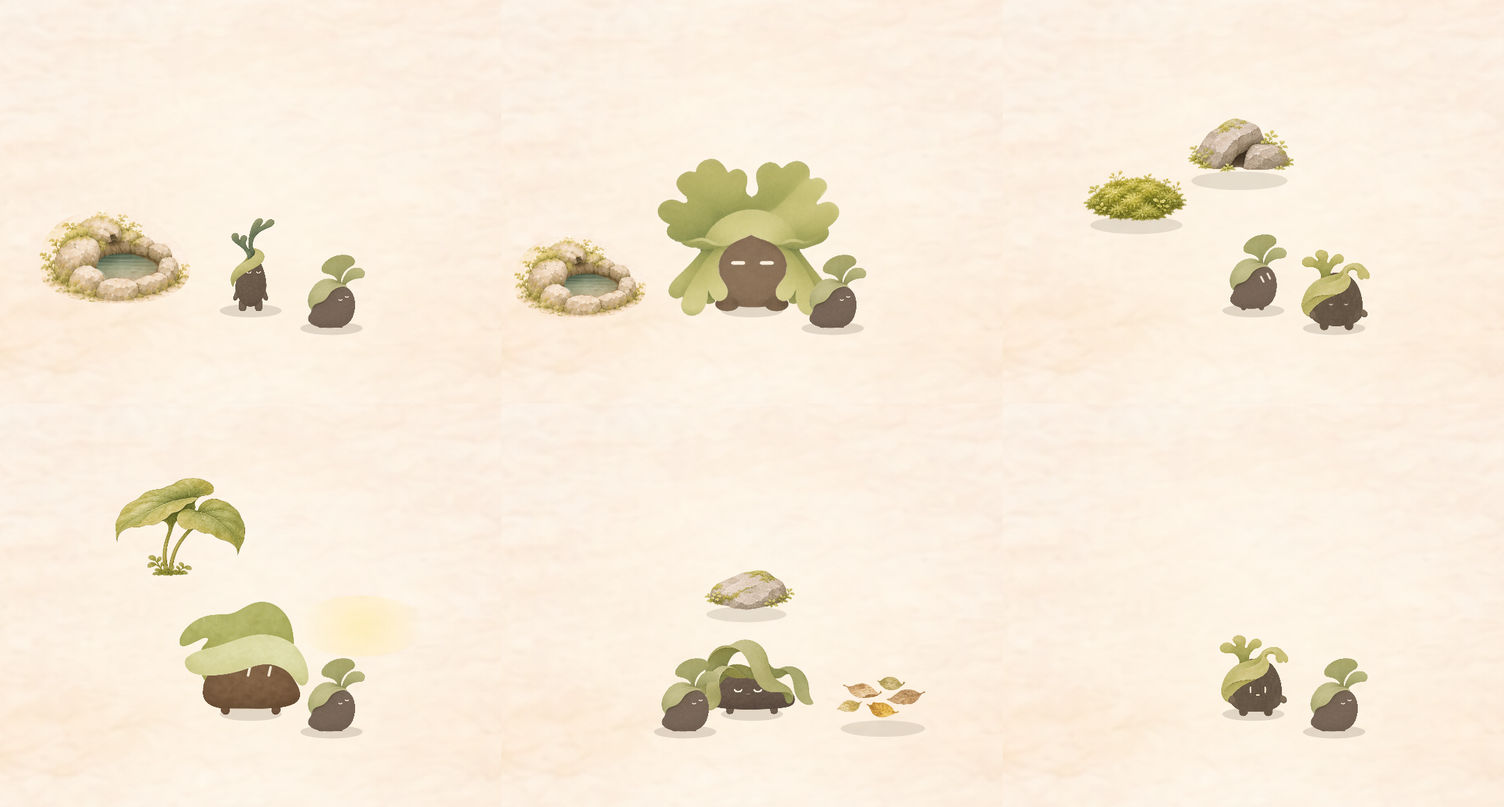
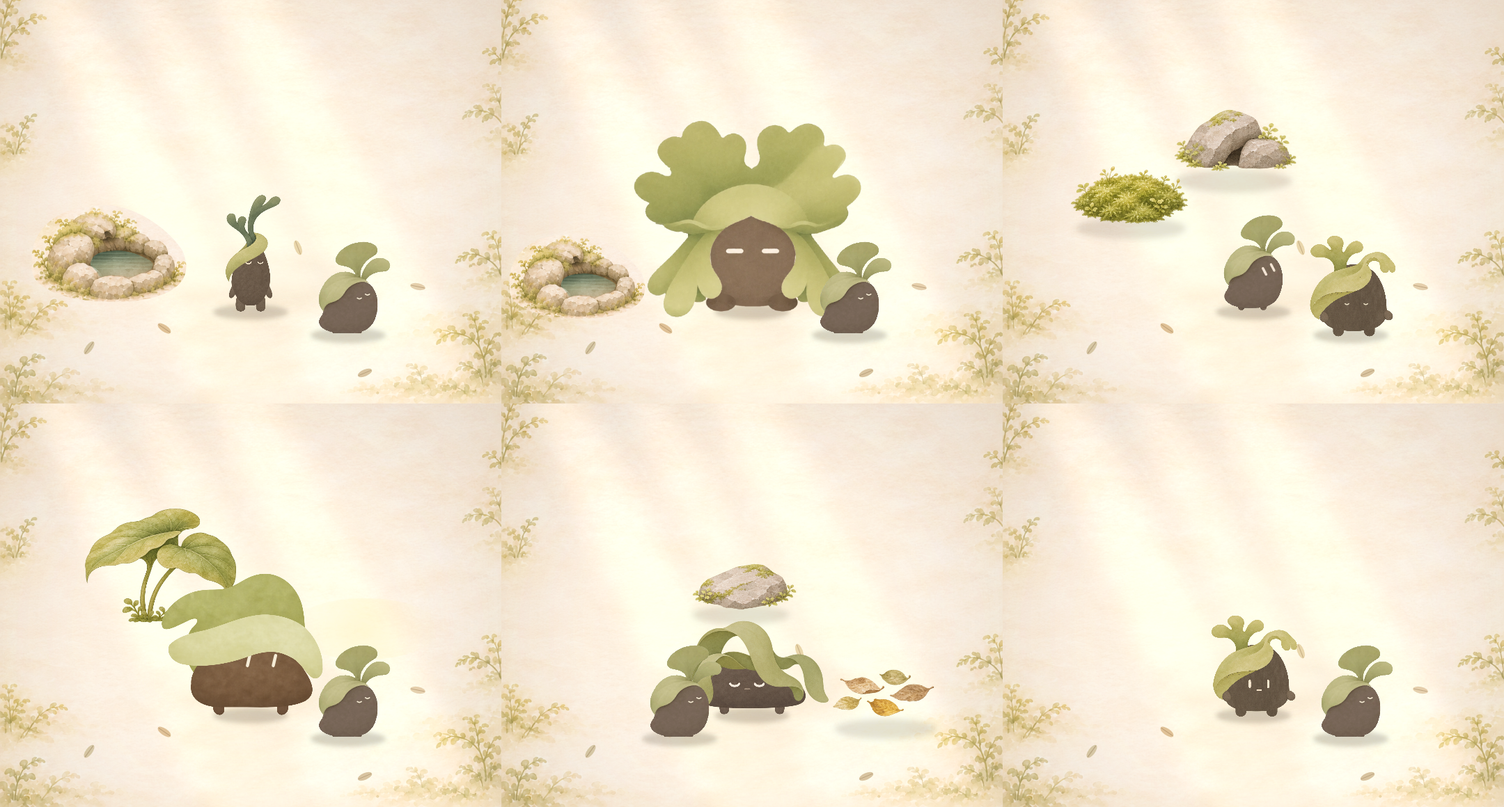
0.6.30: 첫 만남 장면 새 디자인(월드 바닥 그림·빈터·오솔길·햇살), 보송→베이치 이름 바꾸기와 저장 이전
npm test 272/272, UI PASS

Claude-Session: https://claude.ai/code/session_01AkSebmy3Y1v8yPfHbxXfQs

diff --git a/app/src/main/assets/web/forest-app.js b/app/src/main/assets/web/forest-app.js
@@ -75,19 +75,30 @@ function recruitmentPanel(){const r=state.recruitment,v=r.visitor;return '<div c
 function renderVisit(){const v=state.recruitment.visitor;if(!v){switchTab('friends');return;}$('page').innerHTML='<button class="text-button" data-action="visit-close">‹ 정원으로 돌아가기</button><h2>'+escape(F.Recruitment.josa(v.pet.name,'과','와'))+' 첫 만남</h2><p class="sub">만나는 동안 정원의 생활은 잠시 쉬어요.</p><canvas id="visit-canvas" width="720" height="580" style="width:100%;height:auto;border-radius:24px" aria-label="친구와 만나는 작은 자리"></canvas><div class="panel"><p id="visit-status"></p><p class="sub">'+F.Recruitment.goals[v.species]+'</p><ul id="visit-steps" class="recruit-checks"></ul><p id="visit-leave" class="sub"></p><div class="button-pair">'+(F.Recruitment.steps(state).buttons.greet?'<button class="secondary" data-action="visit-greet">반갑게 인사하기</button>':'')+(F.Recruitment.steps(state).buttons.guide?'<button class="secondary" data-action="visit-guide">물 있는 곳 알려주기</button>':'')+'</div><button id="visit-settle" class="primary" data-action="visit-settle">함께 살기</button></div>';updateVisit();drawVisit(performance.now()/1000);}
 function updateVisit(){const v=state.recruitment.visitor;if(!v||!$('visit-status'))return;const p=state.recruitment.progress[v.species];$('visit-status').textContent=v.ready?'함께 살 준비가 됐어요.':v.seconds<30?'새로운 자리에 천천히 익숙해져요.':({walk:'주변을 살펴보며 걸어요.',water:'잎에 물을 모으고 물을 살펴봐요.',sun:'햇빛이 드는 자리를 살펴봐요.',shade:'시원한 그늘을 확인해요.',pick:'낙엽을 조심히 주워요.',carry:'낙엽을 마른 자리로 옮겨요.',rest:'편안하게 쉬고 있어요.',spring:'샘터의 물을 살펴봐요.',sky:'둥지잎을 펼치고 하늘을 올려다봐요.'})[v.phase]||'서로 익숙해지고 있어요.';$('visit-settle').disabled=!v.ready||state.individuals.length>=50;const st=F.Recruitment.steps(state);if(st&&$('visit-steps')){$('visit-steps').innerHTML=st.list.map(k=>'<li class="'+(k.done?'ok':'no')+'">'+(k.done?'✓ ':'· ')+escape(k.label)+(k.value?' <span>'+escape(k.value)+'</span>':'')+'</li>').join('');$('visit-leave').textContent=st.ready?'':'만남 화면을 열어 둔 동안만 시간이 흘러요. 준비가 안 된 채 '+Math.ceil(st.leaveIn/60)+'분이 더 지나면 친구가 잠시 돌아가요.';}}
 function drawVisit(t){const canvas=$('visit-canvas'),v=state.recruitment.visitor;if(!canvas||!v)return;const c=canvas.getContext('2d'),A=scene.assets;c.clearRect(0,0,720,580);
- // Paper ground like the world, a soft clearing, and only the props this visitor actually uses (0.6.24).
- const g=A.garden;if(g)c.drawImage(g,g.width*.42,g.height*.06,g.width*.15,g.height*.1,0,0,720,580);else{c.fillStyle='#f7f3e9';c.fillRect(0,0,720,580);}
- c.save();c.scale(2,2);const glow=c.createRadialGradient(180,170,20,180,170,190);glow.addColorStop(0,'rgba(255,250,236,.55)');glow.addColorStop(1,'rgba(255,250,236,0)');c.fillStyle=glow;c.fillRect(0,0,360,290);
- const terr=(ix,x,y,size)=>{const im=A.terrain;if(!im)return;const sw=im.width/3,sh=im.height/2;c.save();c.globalAlpha=.14;c.fillStyle='#5a4a32';c.beginPath();c.ellipse(x,y+size*.02,size*.36,size*.07,0,0,Math.PI*2);c.fill();c.restore();c.drawImage(im,(ix%3)*sw,Math.floor(ix/3)*sh,sw,sh,x-size/2,y-size*.75,size,size);};
+ // 0.6.30 card scene: the world's own painted ground with its fern borders, a soft worn path into a lit clearing,
+ // the guest's real props on the ground and the characters larger, back to front with contact shadows.
+ const g=A.garden;if(g){const sh=g.width*580/720;c.drawImage(g,0,g.height-sh,g.width,sh,0,0,720,580);}else{c.fillStyle='#f7f0e2';c.fillRect(0,0,720,580);}
+ c.save();c.scale(2,2);
+ const soft=(f,b)=>{c.save();c.filter='blur('+b+'px)';f();c.restore();};
+ // lit clearing and a gentle darkening toward the corners
+ const glow=c.createRadialGradient(180,175,10,180,175,200);glow.addColorStop(0,'rgba(255,248,226,.62)');glow.addColorStop(.6,'rgba(255,248,226,.18)');glow.addColorStop(1,'rgba(255,248,226,0)');c.fillStyle=glow;c.fillRect(0,0,360,290);
+ const edge=c.createRadialGradient(180,160,120,180,160,260);edge.addColorStop(0,'rgba(110,88,58,0)');edge.addColorStop(1,'rgba(110,88,58,.16)');c.fillStyle=edge;c.fillRect(0,0,360,290);
+ // the worn path from the entrance (bottom) into the clearing
+ soft(()=>{c.fillStyle='rgba(150,118,80,.10)';for(const [x,y,rx,ry] of [[184,286,46,14],[178,262,40,12],[172,240,44,12],[178,218,56,14],[180,200,74,18]]){c.beginPath();c.ellipse(x,y,rx,ry,0,0,Math.PI*2);c.fill();}},5);
+ soft(()=>{c.fillStyle='rgba(255,252,240,.35)';c.beginPath();c.ellipse(180,200,64,13,0,0,Math.PI*2);c.fill();},6);
+ // soft morning rays from the upper left, and a few fallen leaves on the ground (fixed places, no randomness)
+ soft(()=>{c.globalCompositeOperation='lighter';for(const [x,w,a] of [[40,34,.045],[110,22,.03],[170,40,.04]]){c.fillStyle='rgba(255,236,190,'+a+')';c.beginPath();c.moveTo(x-20,-10);c.lineTo(x-20+w,-10);c.lineTo(x+w+150,300);c.lineTo(x+110,300);c.closePath();c.fill();}},8);
+ for(const [x,y,r,col] of [[118,236,.6,'rgba(196,150,86,.55)'],[262,268,-.4,'rgba(176,138,82,.5)'],[214,178,1.2,'rgba(206,170,96,.45)'],[64,250,2.2,'rgba(170,150,90,.45)'],[300,206,.2,'rgba(190,140,80,.4)']]){c.save();c.translate(x,y);c.rotate(r);c.fillStyle=col;c.beginPath();c.ellipse(0,0,5.5,2.4,0,0,Math.PI*2);c.fill();c.strokeStyle='rgba(120,90,50,.35)';c.lineWidth=.5;c.beginPath();c.moveTo(-5,0);c.lineTo(5,0);c.stroke();c.restore();}
+ const terr=(ix,x,y,size)=>{const im=A.terrain;if(!im)return;const sw=im.width/3,sh=im.height/2;soft(()=>{c.fillStyle='rgba(90,72,48,.16)';c.beginPath();c.ellipse(x,y+size*.02,size*.38,size*.075,0,0,Math.PI*2);c.fill();},2);c.drawImage(im,(ix%3)*sw,Math.floor(ix/3)*sh,sw,sh,x-size/2,y-size*.75,size,size);};
  const sp=v.species;
- if(sp==='bonbon'){terr(3,170,128,96);terr(1,96,160,92);}
- if(sp==='bosong')scene.springAt(c,{...state,spring:{...state.spring,water:v.water*3,inflow:4/60},individuals:[],weather:{kind:'sun'}},84,186,.8,t);
- if(sp==='neolbi'){c.drawImage(A.shadePlant,75,30,115,115);c.drawImage(A.shadeGround,75,30,115,115);const sun=c.createRadialGradient(259,160,4,259,160,46);sun.addColorStop(0,'rgba(255,236,170,.6)');sun.addColorStop(1,'rgba(255,236,170,0)');c.fillStyle=sun;c.beginPath();c.ellipse(259,160,48,22,0,0,Math.PI*2);c.fill();}
- if(sp==='jureong'){terr(4,274,232,84);terr(0,176,150,80);}
- if(sp==='superbum')scene.springAt(c,{...state,spring:{...state.spring,water:60,inflow:0},individuals:[],weather:{kind:'sun'}},58,200,.7,t);
- // characters ~2x the old card size, drawn back to front with a soft contact shadow
- const R=80,draw=(species,x,y,kind,phase)=>{c.save();c.globalAlpha=.16;c.fillStyle='#4a3c28';c.beginPath();c.ellipse(x,y,R*.28,R*.06,0,0,Math.PI*2);c.fill();c.restore();c.save();c.translate(x,y);c.scale(R/1254,R/1254);c.translate(-627,-1065.9);ForestRig.draw(c,A,{species,kind,phase,expression:kind==='rest'?'sleepy':'neutral',reduced:state.settings.reducedMotion});c.restore();};
- const kind=v.phase==='sky'?'collect':v.phase==='water'?'drink':v.phase==='pick'||v.phase==='carry'?'litter':v.phase==='walk'?'walk':v.phase==='rest'?'rest':'idle',actors=[{species:v.species,x:v.x*360,y:v.y*290,kind}];if(v.companion)actors.push({species:v.companion,x:sp==='jureong'?132:238,y:236,kind:'rest'});
+ if(sp==='bonbon'){terr(3,166,128,110);terr(1,92,162,104);}
+ if(sp==='bosong')scene.springAt(c,{...state,spring:{...state.spring,water:v.water*3,inflow:4/60},individuals:[],weather:{kind:'sun'}},80,184,.82,t);
+ if(sp==='neolbi'){c.drawImage(A.shadePlant,52,48,134,134);c.drawImage(A.shadeGround,52,48,134,134);const sun=c.createRadialGradient(262,162,4,262,162,52);sun.addColorStop(0,'rgba(255,238,184,.42)');sun.addColorStop(1,'rgba(255,238,184,0)');c.fillStyle=sun;c.beginPath();c.ellipse(262,162,54,22,0,0,Math.PI*2);c.fill();}
+ if(sp==='jureong'){terr(4,276,232,96);terr(0,172,150,92);}
+ if(sp==='superbum')scene.springAt(c,{...state,spring:{...state.spring,water:60,inflow:0},individuals:[],weather:{kind:'sun'}},56,200,.72,t);
+ // characters drawn back to front, each with a soft contact shadow
+ const R=100,draw=(species,x,y,kind,phase)=>{soft(()=>{c.fillStyle='rgba(74,60,40,.22)';c.beginPath();c.ellipse(x,y+1,R*.27,R*.055,0,0,Math.PI*2);c.fill();},1.5);c.save();c.translate(x,y);c.scale(R/1254,R/1254);c.translate(-627,-1065.9);ForestRig.draw(c,A,{species,kind,phase,expression:kind==='rest'?'sleepy':'neutral',reduced:state.settings.reducedMotion});c.restore();};
+ const kind=v.phase==='sky'?'collect':v.phase==='water'?'drink':v.phase==='pick'||v.phase==='carry'?'litter':v.phase==='walk'?'walk':v.phase==='rest'?'rest':'idle',actors=[{species:v.species,x:v.x*360,y:v.y*290,kind}];if(v.companion)actors.push({species:v.companion,x:sp==='jureong'?128:250,y:240,kind:'rest'});
  actors.sort((a,b)=>a.y-b.y).forEach(a=>draw(a.species,a.x,a.y,a.kind,t));c.restore();}
 function toggle(k,value){return '<button class="switch" role="switch" aria-label="'+({mounted:'목부작으로 쉬기',showName:'이름 표시',showLevel:'레벨 표시',showState:'선택 카드 상태 표시',showSpeech:'생활 안내 표시',reducedMotion:'움직임 줄이기'}[k])+'" aria-checked="'+value+'" data-toggle="'+k+'"></button>';}
 function syncEditorViewport(){const canvas=$('garden').getBoundingClientRect(),panel=inspector?$('inspect-panel'):editor?$('editor'):null;scene.camera.setBottomOcclusion(panel&&!panel.hidden?Math.max(0,canvas.bottom-panel.getBoundingClientRect().top):0);scene.cameraChanged();}

diff --git a/app/src/main/assets/web/engine.js b/app/src/main/assets/web/engine.js
@@ -20,7 +20,7 @@ const PATCHES=[
  {id:'shelter',name:'기본 쉼터',cap:10,pool:6,infiltration:6,drain:3,exposure:.1,x:.23,y:.22},
  {id:'litter',name:'낙엽 자리',cap:30,pool:10,infiltration:8,drain:1.5,exposure:.8,x:.54,y:.83}
 ];
-const SPECIES=[['ridley','리들리','Platycerium ridleyi','호기심 많은 작은 관찰자'],['bonbon','엘리시','Platycerium ellisii','둥근 잎틈에 작은 이웃이 머물 자리를 내어줘요'],['neolbi','엘레판','Platycerium elephantotis','큰 잎 아래 그늘을 만들어요'],['bosong','보송','Platycerium veitchii','마른 날 물이 있는 곳을 찾아요'],['jureong','주렁','Platycerium coronarium','바람에 날린 낙엽을 모아요'],['duri','두리','Platycerium bifurcatum','친구와 나란히 쉬는 걸 좋아해요'],['superbum','슈퍼범','Platycerium superbum','둥지잎에 빗물을 모아 목마른 친구에게 나눠줘요']];
+const SPECIES=[['ridley','리들리','Platycerium ridleyi','호기심 많은 작은 관찰자'],['bonbon','엘리시','Platycerium ellisii','둥근 잎틈에 작은 이웃이 머물 자리를 내어줘요'],['neolbi','엘레판','Platycerium elephantotis','큰 잎 아래 그늘을 만들어요'],['bosong','베이치','Platycerium veitchii','마른 날 물이 있는 곳을 찾아요'],['jureong','주렁','Platycerium coronarium','바람에 날린 낙엽을 모아요'],['duri','두리','Platycerium bifurcatum','친구와 나란히 쉬는 걸 좋아해요'],['superbum','슈퍼범','Platycerium superbum','둥지잎에 빗물을 모아 목마른 친구에게 나눠줘요']];
 const clone=x=>JSON.parse(JSON.stringify(x));
 const clamp=(v,min=0,max=100)=>Math.max(min,Math.min(max,v));
 const dist=(a,b)=>Math.hypot(a.x-b.x,a.y-b.y);
@@ -176,7 +176,7 @@ function valid(s){
  return s;
 }
 function migrate(old,now=Date.now()){
- if(old.app==='ForestOfSpace'){const s=clone(old);if(![RULES,'SRS-2.5-stage1','SRS-2.8-stage2','SRS-2.9-stage2','SRS-2.16-weather','SRS-2.17-shelter','SRS-2.18-environment'].includes(s.rules))throw Error('지원하지 않는 규칙 버전이에요. 원본을 유지해요.');Obj.migrate(s);if(s.rules==='SRS-2.18-environment')s.rules=RULES;Env.init(Rec.init(s));if(s.rules!==RULES)Sh.rebuild(s);if(s.rules!==RULES&&['SRS-2.5-stage1','SRS-2.8-stage2','SRS-2.9-stage2','SRS-2.16-weather','SRS-2.17-shelter'].includes(s.rules)){if(['SRS-2.9-stage2','SRS-2.16-weather','SRS-2.17-shelter'].includes(s.rules))s.rules=RULES;W.init(s);}if(s.rules==='SRS-2.5-stage1'){s.rules=RULES;s.version=VERSION;s.settings.audio={master:.65,music:.35,environment:.45,effects:.55};for(const p of s.patches)p.film=0;}if(s.rules==='SRS-2.8-stage2'){s.rules=RULES;Social.init(s);}if(!s.social&&old.rules==='SRS-2.5-stage1')Social.init(s);s.version=VERSION;for(const p of s.individuals){delete p.personalityClip;delete p.motion;if(p.species==='neolbi'){p.canopy=false;p.canopyProgress=0;}delete p.canopyClosing;if(p.active&&!p.mounted&&!Space.walkable(s,p,p.id)){const q=Space.placement(s,p.id,p);if(!q.ok)throw Error('기존 위치를 안전하게 복구하지 못했어요. 원본 기록을 유지해요.');p.x=q.x;p.y=q.y;}}Obj.litterInit(s);valid(s);Social.invalidate(s);s.neighbor.observed=0;for(const p of s.individuals){if(p.name==='새싹이'&&!p.customName)p.name='리들리';if(p.species==='neolbi'&&p.name==='넓이'&&!p.customName)p.name='엘레판';if(p.species==='bonbon'&&p.name==='봉봉'&&!p.customName)p.name='엘리시';}return s;}
+ if(old.app==='ForestOfSpace'){const s=clone(old);if(![RULES,'SRS-2.5-stage1','SRS-2.8-stage2','SRS-2.9-stage2','SRS-2.16-weather','SRS-2.17-shelter','SRS-2.18-environment'].includes(s.rules))throw Error('지원하지 않는 규칙 버전이에요. 원본을 유지해요.');Obj.migrate(s);if(s.rules==='SRS-2.18-environment')s.rules=RULES;Env.init(Rec.init(s));if(s.rules!==RULES)Sh.rebuild(s);if(s.rules!==RULES&&['SRS-2.5-stage1','SRS-2.8-stage2','SRS-2.9-stage2','SRS-2.16-weather','SRS-2.17-shelter'].includes(s.rules)){if(['SRS-2.9-stage2','SRS-2.16-weather','SRS-2.17-shelter'].includes(s.rules))s.rules=RULES;W.init(s);}if(s.rules==='SRS-2.5-stage1'){s.rules=RULES;s.version=VERSION;s.settings.audio={master:.65,music:.35,environment:.45,effects:.55};for(const p of s.patches)p.film=0;}if(s.rules==='SRS-2.8-stage2'){s.rules=RULES;Social.init(s);}if(!s.social&&old.rules==='SRS-2.5-stage1')Social.init(s);s.version=VERSION;for(const p of s.individuals){delete p.personalityClip;delete p.motion;if(p.species==='neolbi'){p.canopy=false;p.canopyProgress=0;}delete p.canopyClosing;if(p.active&&!p.mounted&&!Space.walkable(s,p,p.id)){const q=Space.placement(s,p.id,p);if(!q.ok)throw Error('기존 위치를 안전하게 복구하지 못했어요. 원본 기록을 유지해요.');p.x=q.x;p.y=q.y;}}Obj.litterInit(s);valid(s);Social.invalidate(s);s.neighbor.observed=0;for(const p of s.individuals){if(p.name==='새싹이'&&!p.customName)p.name='리들리';if(p.species==='neolbi'&&p.name==='넓이'&&!p.customName)p.name='엘레판';if(p.species==='bonbon'&&p.name==='봉봉'&&!p.customName)p.name='엘리시';if(p.species==='bosong'&&p.name==='보송'&&!p.customName)p.name='베이치';}if(s.recruitment?.visitor?.pet?.species==='bosong'&&s.recruitment.visitor.pet.name==='보송')s.recruitment.visitor.pet.name='베이치';return s;}
  if(old.schema!==1||old.app!=='RidleyDeskMobile'||!old.pets?.deully||!Number.isFinite(old.savedAt))throw Error('지원하지 않는 이전 기록이에요. 원본은 바꾸지 않았어요.');
  const s=create(now,seedInt(old.deviceId||'old-ridley')),p=s.individuals[0],o=old.pets.deully;
  for(const [a,b]of [['B','water'],['energy','energy'],['mood','mood'],['nutrition','nutrition'],['damage','damage']]){if(!Number.isFinite(o[b]))throw Error('이전 생활 기록을 읽을 수 없어요.');p[a]=clamp(o[b]);}

diff --git a/app/src/main/assets/web/recruitment.js b/app/src/main/assets/web/recruitment.js
@@ -1,7 +1,7 @@
 (function(root,factory){const api=factory();if(typeof module==='object')module.exports=api;else root.ForestRecruitment=api;})(globalThis,function(){
 'use strict';
 const josa=(w,a,b)=>{const c=String(w).charCodeAt(String(w).length-1)-0xac00;return w+(c>=0&&c<11172&&c%28?a:b);};
-const ids=['ridley','bonbon','neolbi','bosong','jureong','duri','superbum'],names=['리들리','엘리시','엘레판','보송','주렁','두리','슈퍼범'];
+const ids=['ridley','bonbon','neolbi','bosong','jureong','duri','superbum'],names=['리들리','엘리시','엘레판','베이치','주렁','두리','슈퍼범'];
 const needs={ridley:'쉼터와 주울 낙엽 1개',bonbon:'촉촉하고 물이 고이지 않는 이끼와 바위 틈',neolbi:'가까이 이어진 밝은 자리와 넓은 그늘',bosong:'건조하고 고요한 자리, 마실 물',jureong:'주울 낙엽과 마른 정리 자리',duri:'통로가 열린 조용한 쉼터',superbum:'물이 3할 넘게 찬 샘터와 그곳으로 가는 길'};
 const goals={ridley:'편안하게 120초 머물고 인사하기',bonbon:'잎틈을 살핀 뒤 편안하게 120초 머물기',neolbi:'햇빛과 그늘을 살핀 뒤 20초 쉬기',bosong:'마실 물을 찾아보기',jureong:'낙엽 한 장을 주워 옮기기',duri:'친구와 20초 또는 혼자 60초 쉬기',superbum:'샘터를 살피고 하늘을 올려다본 뒤 20초 쉬기'};
 // 0.6.23: 두리 is retired from visits (no approved design). Ellisii takes its place as the first visitor. Friends who

diff --git a/AGENTS.md b/AGENTS.md
@@ -1,4 +1,4 @@
-# APK0.6.30 · 쉬는 자리 바로잡기: 잎 그늘·엘레판 잎 아래, 바위 옆 관통, 첫 만남 샘터
+# APK0.6.30 · 쉬는 자리 바로잡기(잎 그늘·엘레판 잎 아래·바위 옆 관통), 첫 만남 장면 새 디자인, 보송→베이치
 
 2026-11-18. 사용자 제보(0.6.29 실기기 화면):
 - "애들 잎 그늘에서 쉴 때, 엘레판 밑에서 쉴 때 왜 멀찍이 떨어져 있냐"
@@ -18,11 +18,19 @@
 - **쉼터에서 나갈 때:**
   - 두 친구가 같은 바깥 자리로 나가다 하나가 막히면, 6초 뒤 그 자리(쉼터 밖)에서 '쉼터 안에서 쉬는 중'으로 바뀌던 문제가 있었다. 위 바위 판정 변경으로 드러났다.
   - 이미 쉼터 밖에 있으면 밖으로 내보내 준다. 쉼터에 걸쳐 있을 때만 예전처럼 그 자리에서 쉰다.
-- **첫 만남 카드 샘터:** 물만 그려서 연잎처럼 보였다. 월드와 같은 돌 샘터(`scene.springAt`, 바닥 그림의 돌 테두리 + 물)로 그린다. 보송·슈퍼범 카드에 쓴다.
+- **첫 만남 장면:** 사용자 요청("케릭들 기다리는 이미지 디자인만 바꿔줘. 기존은 너무 구림")에 따라 새로 그렸다.
+  - 배경: 빈 종이 대신 월드 바닥 그림을 쓴다(가장자리 고사리 테두리 포함). 가운데는 밝은 빈터로, 가장자리는 살짝 어둡게 했다.
+  - 입구에서 빈터로 이어지는 옅은 오솔길, 왼쪽 위에서 비치는 부드러운 햇살, 고정 위치의 낙엽 몇 장을 더했다.
+  - 캐릭터를 25% 키우고 접지 그림자를 부드럽게 했다.
+  - 샘터는 물만 그려서 연잎처럼 보였다. 월드와 같은 돌 샘터(`scene.springAt`)로 그린다(베이치·슈퍼범 카드).
+  - 렌더 전용 변경이고, 상태와 난수는 바뀌지 않는다.
+- **보송 → 베이치:** 종 이름을 *Platycerium veitchii*에 맞춰 '베이치'로 바꿨다(도감·방문·영입 목록).
+  - 저장된 보송은 사용자가 이름을 바꾸지 않았다면 불러올 때 '베이치'가 된다. 입구에서 기다리는 손님도 같다.
+  - 별명을 붙인 친구는 그대로 둔다. 내부 종 키 `bosong`은 바꾸지 않는다.
 - **정원 밖 친구 문구:** "다음 만남을 기다리고 있어요"가 손님을 기다리는 것처럼 읽혀서 "정원 밖에서 쉬고 있어요 · 친구들 화면에서 정원에 들일 수 있어요"로 바꿨다.
 - 저장 스키마·규칙 식별자 불변. 버전 0.6.30 / versionCode 47.
 
-검증: 자동 271/271, DOM UI PASS. `rest-spots.test.cjs`(4개)가 확인하는 것:
+검증: 자동 272/272, DOM UI PASS. `names-030.test.cjs`(이름 바꾸기·저장 이전)를 추가했다. `rest-spots.test.cjs`(4개)가 확인하는 것:
 - 잎 그늘 자리가 잎 아래이고, 줄기만 막힘
 - 엘레판 잎 아래 자리
 - 돌 옆면에 몸이 들어가지 않음

diff --git a/README.md b/README.md
@@ -1,4 +1,4 @@
-# APK0.6.30 · 쉬는 자리 바로잡기: 잎 그늘·엘레판 잎 아래, 바위 옆 관통, 첫 만남 샘터
+# APK0.6.30 · 쉬는 자리 바로잡기(잎 그늘·엘레판 잎 아래·바위 옆 관통), 첫 만남 장면 새 디자인, 보송→베이치
 
 2026-11-18. 사용자 제보(0.6.29 실기기 화면):
 - "애들 잎 그늘에서 쉴 때, 엘레판 밑에서 쉴 때 왜 멀찍이 떨어져 있냐"
@@ -18,11 +18,19 @@
 - **쉼터에서 나갈 때:**
   - 두 친구가 같은 바깥 자리로 나가다 하나가 막히면, 6초 뒤 그 자리(쉼터 밖)에서 '쉼터 안에서 쉬는 중'으로 바뀌던 문제가 있었다. 위 바위 판정 변경으로 드러났다.
   - 이미 쉼터 밖에 있으면 밖으로 내보내 준다. 쉼터에 걸쳐 있을 때만 예전처럼 그 자리에서 쉰다.
-- **첫 만남 카드 샘터:** 물만 그려서 연잎처럼 보였다. 월드와 같은 돌 샘터(`scene.springAt`, 바닥 그림의 돌 테두리 + 물)로 그린다. 보송·슈퍼범 카드에 쓴다.
+- **첫 만남 장면:** 사용자 요청("케릭들 기다리는 이미지 디자인만 바꿔줘. 기존은 너무 구림")에 따라 새로 그렸다.
+  - 배경: 빈 종이 대신 월드 바닥 그림을 쓴다(가장자리 고사리 테두리 포함). 가운데는 밝은 빈터로, 가장자리는 살짝 어둡게 했다.
+  - 입구에서 빈터로 이어지는 옅은 오솔길, 왼쪽 위에서 비치는 부드러운 햇살, 고정 위치의 낙엽 몇 장을 더했다.
+  - 캐릭터를 25% 키우고 접지 그림자를 부드럽게 했다.
+  - 샘터는 물만 그려서 연잎처럼 보였다. 월드와 같은 돌 샘터(`scene.springAt`)로 그린다(베이치·슈퍼범 카드).
+  - 렌더 전용 변경이고, 상태와 난수는 바뀌지 않는다.
+- **보송 → 베이치:** 종 이름을 *Platycerium veitchii*에 맞춰 '베이치'로 바꿨다(도감·방문·영입 목록).
+  - 저장된 보송은 사용자가 이름을 바꾸지 않았다면 불러올 때 '베이치'가 된다. 입구에서 기다리는 손님도 같다.
+  - 별명을 붙인 친구는 그대로 둔다. 내부 종 키 `bosong`은 바꾸지 않는다.
 - **정원 밖 친구 문구:** "다음 만남을 기다리고 있어요"가 손님을 기다리는 것처럼 읽혀서 "정원 밖에서 쉬고 있어요 · 친구들 화면에서 정원에 들일 수 있어요"로 바꿨다.
 - 저장 스키마·규칙 식별자 불변. 버전 0.6.30 / versionCode 47.
 
-검증: 자동 271/271, DOM UI PASS. `rest-spots.test.cjs`(4개)가 확인하는 것:
+검증: 자동 272/272, DOM UI PASS. `names-030.test.cjs`(이름 바꾸기·저장 이전)를 추가했다. `rest-spots.test.cjs`(4개)가 확인하는 것:
 - 잎 그늘 자리가 잎 아래이고, 줄기만 막힘
 - 엘레판 잎 아래 자리
 - 돌 옆면에 몸이 들어가지 않음

diff --git a/docs/Forest-0.6.30-Release.md b/docs/Forest-0.6.30-Release.md
@@ -1,4 +1,4 @@
-# APK0.6.30 · 쉬는 자리 바로잡기: 잎 그늘·엘레판 잎 아래, 바위 옆 관통, 첫 만남 샘터
+# APK0.6.30 · 쉬는 자리 바로잡기(잎 그늘·엘레판 잎 아래·바위 옆 관통), 첫 만남 장면 새 디자인, 보송→베이치
 
 2026-11-18. 사용자 제보(0.6.29 실기기 화면):
 - "애들 잎 그늘에서 쉴 때, 엘레판 밑에서 쉴 때 왜 멀찍이 떨어져 있냐"
@@ -18,11 +18,19 @@
 - **쉼터에서 나갈 때:**
   - 두 친구가 같은 바깥 자리로 나가다 하나가 막히면, 6초 뒤 그 자리(쉼터 밖)에서 '쉼터 안에서 쉬는 중'으로 바뀌던 문제가 있었다. 위 바위 판정 변경으로 드러났다.
   - 이미 쉼터 밖에 있으면 밖으로 내보내 준다. 쉼터에 걸쳐 있을 때만 예전처럼 그 자리에서 쉰다.
-- **첫 만남 카드 샘터:** 물만 그려서 연잎처럼 보였다. 월드와 같은 돌 샘터(`scene.springAt`, 바닥 그림의 돌 테두리 + 물)로 그린다. 보송·슈퍼범 카드에 쓴다.
+- **첫 만남 장면:** 사용자 요청("케릭들 기다리는 이미지 디자인만 바꿔줘. 기존은 너무 구림")에 따라 새로 그렸다.
+  - 배경: 빈 종이 대신 월드 바닥 그림을 쓴다(가장자리 고사리 테두리 포함). 가운데는 밝은 빈터로, 가장자리는 살짝 어둡게 했다.
+  - 입구에서 빈터로 이어지는 옅은 오솔길, 왼쪽 위에서 비치는 부드러운 햇살, 고정 위치의 낙엽 몇 장을 더했다.
+  - 캐릭터를 25% 키우고 접지 그림자를 부드럽게 했다.
+  - 샘터는 물만 그려서 연잎처럼 보였다. 월드와 같은 돌 샘터(`scene.springAt`)로 그린다(베이치·슈퍼범 카드).
+  - 렌더 전용 변경이고, 상태와 난수는 바뀌지 않는다.
+- **보송 → 베이치:** 종 이름을 *Platycerium veitchii*에 맞춰 '베이치'로 바꿨다(도감·방문·영입 목록).
+  - 저장된 보송은 사용자가 이름을 바꾸지 않았다면 불러올 때 '베이치'가 된다. 입구에서 기다리는 손님도 같다.
+  - 별명을 붙인 친구는 그대로 둔다. 내부 종 키 `bosong`은 바꾸지 않는다.
 - **정원 밖 친구 문구:** "다음 만남을 기다리고 있어요"가 손님을 기다리는 것처럼 읽혀서 "정원 밖에서 쉬고 있어요 · 친구들 화면에서 정원에 들일 수 있어요"로 바꿨다.
 - 저장 스키마·규칙 식별자 불변. 버전 0.6.30 / versionCode 47.
 
-검증: 자동 271/271, DOM UI PASS. `rest-spots.test.cjs`(4개)가 확인하는 것:
+검증: 자동 272/272, DOM UI PASS. `names-030.test.cjs`(이름 바꾸기·저장 이전)를 추가했다. `rest-spots.test.cjs`(4개)가 확인하는 것:
 - 잎 그늘 자리가 잎 아래이고, 줄기만 막힘
 - 엘레판 잎 아래 자리
 - 돌 옆면에 몸이 들어가지 않음

diff --git a/docs/IMPLEMENTATION_STATUS.md b/docs/IMPLEMENTATION_STATUS.md
@@ -1,4 +1,4 @@
-# APK0.6.30 · 쉬는 자리 바로잡기: 잎 그늘·엘레판 잎 아래, 바위 옆 관통, 첫 만남 샘터
+# APK0.6.30 · 쉬는 자리 바로잡기(잎 그늘·엘레판 잎 아래·바위 옆 관통), 첫 만남 장면 새 디자인, 보송→베이치
 
 2026-11-18. 사용자 제보(0.6.29 실기기 화면):
 - "애들 잎 그늘에서 쉴 때, 엘레판 밑에서 쉴 때 왜 멀찍이 떨어져 있냐"
@@ -18,11 +18,19 @@
 - **쉼터에서 나갈 때:**
   - 두 친구가 같은 바깥 자리로 나가다 하나가 막히면, 6초 뒤 그 자리(쉼터 밖)에서 '쉼터 안에서 쉬는 중'으로 바뀌던 문제가 있었다. 위 바위 판정 변경으로 드러났다.
   - 이미 쉼터 밖에 있으면 밖으로 내보내 준다. 쉼터에 걸쳐 있을 때만 예전처럼 그 자리에서 쉰다.
-- **첫 만남 카드 샘터:** 물만 그려서 연잎처럼 보였다. 월드와 같은 돌 샘터(`scene.springAt`, 바닥 그림의 돌 테두리 + 물)로 그린다. 보송·슈퍼범 카드에 쓴다.
+- **첫 만남 장면:** 사용자 요청("케릭들 기다리는 이미지 디자인만 바꿔줘. 기존은 너무 구림")에 따라 새로 그렸다.
+  - 배경: 빈 종이 대신 월드 바닥 그림을 쓴다(가장자리 고사리 테두리 포함). 가운데는 밝은 빈터로, 가장자리는 살짝 어둡게 했다.
+  - 입구에서 빈터로 이어지는 옅은 오솔길, 왼쪽 위에서 비치는 부드러운 햇살, 고정 위치의 낙엽 몇 장을 더했다.
+  - 캐릭터를 25% 키우고 접지 그림자를 부드럽게 했다.
+  - 샘터는 물만 그려서 연잎처럼 보였다. 월드와 같은 돌 샘터(`scene.springAt`)로 그린다(베이치·슈퍼범 카드).
+  - 렌더 전용 변경이고, 상태와 난수는 바뀌지 않는다.
+- **보송 → 베이치:** 종 이름을 *Platycerium veitchii*에 맞춰 '베이치'로 바꿨다(도감·방문·영입 목록).
+  - 저장된 보송은 사용자가 이름을 바꾸지 않았다면 불러올 때 '베이치'가 된다. 입구에서 기다리는 손님도 같다.
+  - 별명을 붙인 친구는 그대로 둔다. 내부 종 키 `bosong`은 바꾸지 않는다.
 - **정원 밖 친구 문구:** "다음 만남을 기다리고 있어요"가 손님을 기다리는 것처럼 읽혀서 "정원 밖에서 쉬고 있어요 · 친구들 화면에서 정원에 들일 수 있어요"로 바꿨다.
 - 저장 스키마·규칙 식별자 불변. 버전 0.6.30 / versionCode 47.
 
-검증: 자동 271/271, DOM UI PASS. `rest-spots.test.cjs`(4개)가 확인하는 것:
+검증: 자동 272/272, DOM UI PASS. `names-030.test.cjs`(이름 바꾸기·저장 이전)를 추가했다. `rest-spots.test.cjs`(4개)가 확인하는 것:
 - 잎 그늘 자리가 잎 아래이고, 줄기만 막힘
 - 엘레판 잎 아래 자리
 - 돌 옆면에 몸이 들어가지 않음

diff --git a/HANDOFF.md b/HANDOFF.md
@@ -405,4 +405,8 @@
   - 움직임: 0.6.28과 0.6.29의 1게임시간 정지 시간이 같다. 비 오는 날 엘레판의 잎 우산과 쉼터에 들어가 쉬는 행동 때문이다.
   - 첫 만남 손님은 보송(봉봉 아님)이고, 옆은 동행 친구 엘리시다.
   - 도감: `seen` 기록은 0.6.28부터 생겼고, 엔진에서는 저장까지 정상이다. 0.6.28 이전에 왔다 간 이웃은 기록이 없다. 사용자가 본 종을 확인 중이다.
+- 추가 요청: "케릭들 기다리는 이미지 디자인만 바꿔줘", "보송 이름 베이치로 업데이트".
+  - 첫 만남 장면을 새로 그렸다(`forest-app.js` `drawVisit`): 월드 바닥 그림과 고사리 테두리, 빈터, 오솔길, 햇살, 낙엽, 캐릭터 25% 확대.
+  - 보송을 베이치로 바꿨다(`engine.js` 종 목록·불러오기 이름 이전, `recruitment.js`). `names-030.test.cjs`를 추가했다.
+  - `npm test` 272/272, UI PASS.
 - 남은 일: 도감 미기록 종 확인. Android 실기기 미검증.
